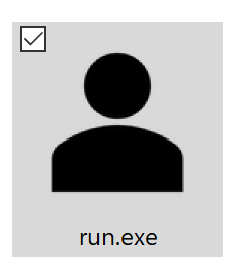
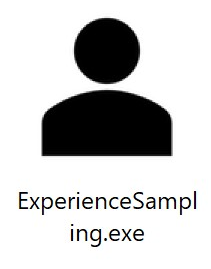
Aggiornate screenshots

diff --git a/README.md b/README.md
@@ -88,5 +88,3 @@ To build a standalone executable for Mac OS esec `make build` in a Mac OS enviro
 The executables will be located in the `dist` folder.
 
 Before every new build, make sure to exec `make clean` to remove the `build` folder from previous builds.
-
-[Italian version](https://github.com/h3r0n/ExperienceSampling/blob/master/README_IT.md)
